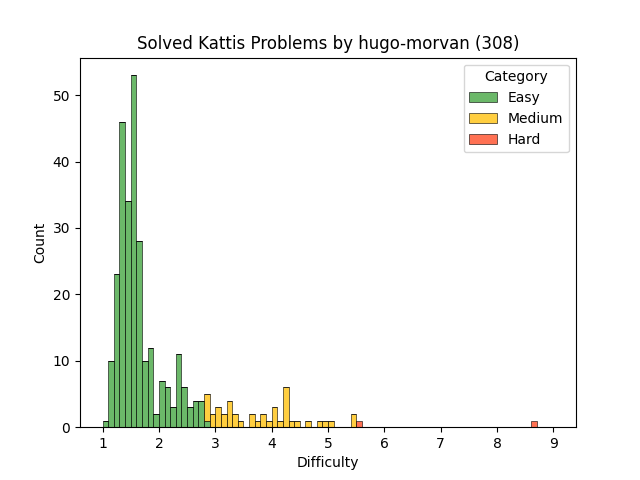
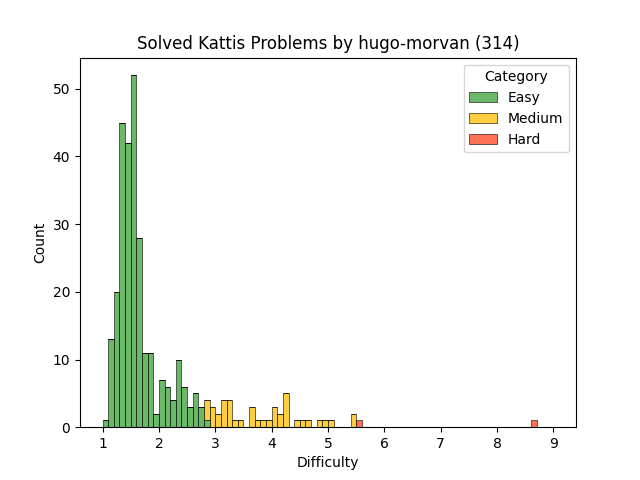
sync

diff --git a/source/Hanging Out on the Terrace/hangingout.py b/source/Hanging Out on the Terrace/hangingout.py
@@ -1,0 +1,12 @@
+l,x = map(int,input().split())
+c=0
+d=0
+for i in range(x):
+    action, num = input().split()
+    num = int(num)
+    if action=="enter":
+        if c+num>l: d += 1
+        else: c+=num
+    else:
+        c -= num
+print(d)

diff --git a/plot_prob.py b/plot_prob.py
@@ -7,3 +7,4 @@ user = os.getenv("USER")
 password = os.getenv("PASSWORD")
 kt = OpenKattis(user, password)
 kt.plot_problems(filepath='./plot.png',show_partial=True)       # save to a filepath
+print("plot saved")

diff --git a/source/Divvying Up/divvyingup.py b/source/Divvying Up/divvyingup.py
@@ -1,0 +1,2 @@
+input()
+print(['no','yes'][sum(map(int,input().split()))%3==0])

diff --git a/source/Mæting/maeting.py b/source/Mæting/maeting.py
@@ -1,0 +1,1 @@
+#https://open.kattis.com/problems/maeting

diff --git a/README.md b/README.md
@@ -1,4 +1,4 @@
-## Total problems attempted: 322
+## Total problems attempted: 327
 
 ![alt text](https://github.com/hugo-morvan/Kattis-Solutions/blob/main/plot.png?raw=true)
 
@@ -98,6 +98,7 @@ Note that the table below is auto-generated. There might be slight inaccuracies.
 |[Deathstar](https://open.kattis.com/problems/deathstar)| deathstar |[![py](https://github.com/abrahamcalf/programming-languages-logos/blob/master/src/python/python_24x24.png)](source/Deathstar/deathstar.py)|
 |[Decimal deletion](https://open.kattis.com/problems/decimaldeletion)| decimaldeletion |[![py](https://github.com/abrahamcalf/programming-languages-logos/blob/master/src/python/python_24x24.png)](source/Decimal%20deletion/decimaldeletion.py)|
 |[Detailed Differences](https://open.kattis.com/problems/detaileddifferences)| detaileddifferences |[![py](https://github.com/abrahamcalf/programming-languages-logos/blob/master/src/python/python_24x24.png)](source/Detailed%20Differences/detaileddifferences.py)|
+|[D Fyrir Dreki](https://open.kattis.com/problems/dfyrirdreki)| dfyrirdreki |[![py](https://github.com/abrahamcalf/programming-languages-logos/blob/master/src/python/python_24x24.png)](source/D%20Fyrir%20Dreki/dfyrirdreki.py)|
 |[Dice Cup](https://open.kattis.com/problems/dicecup)| dicecup |[![java](https://github.com/abrahamcalf/programming-languages-logos/blob/master/src/java/java_24x24.png)](source/Dice%20Cup/dicecup.java)|
 |[A Different Problem](https://open.kattis.com/problems/different)| different |[![java](https://github.com/abrahamcalf/programming-languages-logos/blob/master/src/java/java_24x24.png)](source/A%20Different%20Problem/different.java)|
 |[Digit Swap](https://open.kattis.com/problems/digitswap)| digitswap |[![java](https://github.com/abrahamcalf/programming-languages-logos/blob/master/src/java/java_24x24.png)](source/Digit%20Swap/digitswap.java)|
@@ -120,9 +121,11 @@ Note that the table below is auto-generated. There might be slight inaccuracies.
 |[Framtidar FIFA](https://open.kattis.com/problems/fifa)| fifa |[![py](https://github.com/abrahamcalf/programming-languages-logos/blob/master/src/python/python_24x24.png)](source/Framtidar%20FIFA/fifa.py)|
 |[Fifty Shades of Pink](https://open.kattis.com/problems/fiftyshades)| fiftyshades |[![py](https://github.com/abrahamcalf/programming-languages-logos/blob/master/src/python/python_24x24.png)](source/Fifty%20Shades%20of%20Pink/fiftyshades.py)|
 |[Filip](https://open.kattis.com/problems/filip)| filip |[![java](https://github.com/abrahamcalf/programming-languages-logos/blob/master/src/java/java_24x24.png)](source/Filip/filip.java)|
+|[Fimmtudagstilboð](https://open.kattis.com/problems/fimmtudagstilbod)| fimmtudagstilbod |[![py](https://github.com/abrahamcalf/programming-languages-logos/blob/master/src/python/python_24x24.png)](source/Fimmtudagstilboð/fimmtudagstilbod.py)|
 |[Final Exam](https://open.kattis.com/problems/finalexam2)| finalexam2 |[![py](https://github.com/abrahamcalf/programming-languages-logos/blob/master/src/python/python_24x24.png)](source/Final%20Exam/finalexam2.py)|
 |[Finding An A](https://open.kattis.com/problems/findingana)| findingana |[![java](https://github.com/abrahamcalf/programming-languages-logos/blob/master/src/java/java_24x24.png)](source/Finding%20An%20A/FindingAnA.java)[![py](https://github.com/abrahamcalf/programming-languages-logos/blob/master/src/python/python_24x24.png)](source/Finding%20An%20A/findingana.py)|
 |[FizzBuzz](https://open.kattis.com/problems/fizzbuzz)| fizzbuzz |[![java](https://github.com/abrahamcalf/programming-languages-logos/blob/master/src/java/java_24x24.png)](source/FizzBuzz/FizzBuzz.java)|
+|[Fjöldi Bókstafa](https://open.kattis.com/problems/fjoldibokstafa)| fjoldibokstafa |[![py](https://github.com/abrahamcalf/programming-languages-logos/blob/master/src/python/python_24x24.png)](source/Fjöldi%20Bókstafa/fjoldibokstafa.py)|
 |[Flatbokuveisla](https://open.kattis.com/problems/flatbokuveisla)| flatbokuveisla |[![py](https://github.com/abrahamcalf/programming-languages-logos/blob/master/src/python/python_24x24.png)](source/Flatbokuveisla/flatbokuveisla.py)|
 |[Flytibaka](https://open.kattis.com/problems/flytibaka)| flytibaka |[![py](https://github.com/abrahamcalf/programming-languages-logos/blob/master/src/python/python_24x24.png)](source/Flytibaka/flytibaka.py)|
 |[Forced Choice](https://open.kattis.com/problems/forcedchoice)| forcedchoice |[![py](https://github.com/abrahamcalf/programming-languages-logos/blob/master/src/python/python_24x24.png)](source/Forced%20Choice/forcedchoice.py)|
@@ -138,6 +141,7 @@ Note that the table below is auto-generated. There might be slight inaccuracies.
 |[Grass Seed Inc](https://open.kattis.com/problems/grassseed)| grassseed |[![java](https://github.com/abrahamcalf/programming-languages-logos/blob/master/src/java/java_24x24.png)](source/Grass%20Seed%20Inc/grassseed.java)|
 |[Greetings!](https://open.kattis.com/problems/greetings2)| greetings2 |[![java](https://github.com/abrahamcalf/programming-languages-logos/blob/master/src/java/java_24x24.png)](source/Greetings!/greetings2.java)|
 |[gymleader](https://open.kattis.com/problems/gymleader)| gymleader |[![py](https://github.com/abrahamcalf/programming-languages-logos/blob/master/src/python/python_24x24.png)](source/gymleader/gymleader.py)|
+|[Hakkari](https://open.kattis.com/problems/hakkari)| hakkari |[![py](https://github.com/abrahamcalf/programming-languages-logos/blob/master/src/python/python_24x24.png)](source/Hakkari/hakkari.py)|
 |[Harshad Numbers](https://open.kattis.com/problems/harshadnumbers)| harshadnumbers |[![py](https://github.com/abrahamcalf/programming-languages-logos/blob/master/src/python/python_24x24.png)](source/Harshad%20Numbers/harshadnumbers.py)|
 |[Haughty Cuisine](https://open.kattis.com/problems/haughtycuisine)| haughtycuisine |[![py](https://github.com/abrahamcalf/programming-languages-logos/blob/master/src/python/python_24x24.png)](source/Haughty%20Cuisine/haughtycuisine.py)|
 |[Heart Rate](https://open.kattis.com/problems/heartrate)| heartrate |[![java](https://github.com/abrahamcalf/programming-languages-logos/blob/master/src/java/java_24x24.png)](source/Heart%20Rate/heartrate.java)|
@@ -167,6 +171,7 @@ Note that the table below is auto-generated. There might be slight inaccuracies.
 |[The Key to Cryptography](https://open.kattis.com/problems/keytocrypto)| keytocrypto |[![py](https://github.com/abrahamcalf/programming-languages-logos/blob/master/src/python/python_24x24.png)](source/The%20Key%20to%20Cryptography/keytocrypto.py)|
 |[Keywords](https://open.kattis.com/problems/keywords)| keywords |[![java](https://github.com/abrahamcalf/programming-languages-logos/blob/master/src/java/java_24x24.png)](source/Keywords/keywords.java)|
 |[Kiki Boba](https://open.kattis.com/problems/kikiboba)| kikiboba |[![py](https://github.com/abrahamcalf/programming-languages-logos/blob/master/src/python/python_24x24.png)](source/Kiki%20Boba/kikiboba.py)|
+|[Kínahvísl](https://open.kattis.com/problems/kinahvisl)| kinahvisl |[![py](https://github.com/abrahamcalf/programming-languages-logos/blob/master/src/python/python_24x24.png)](source/Kínahvísl/kinahvisl.py)|
 |[kleptography](https://open.kattis.com/problems/kleptography)| kleptography |[![py](https://github.com/abrahamcalf/programming-languages-logos/blob/master/src/python/python_24x24.png)](source/kleptography/kleptography.py)|
 |[Knapsack](https://open.kattis.com/problems/knapsack)| knapsack |[![py](https://github.com/abrahamcalf/programming-languages-logos/blob/master/src/python/python_24x24.png)](source/Knapsack/knapsack.py)|
 |[Knight Packing](https://open.kattis.com/problems/knightpacking)| knightpacking |[![py](https://github.com/abrahamcalf/programming-languages-logos/blob/master/src/python/python_24x24.png)](source/Knight%20Packing/knightpacking.py)|
